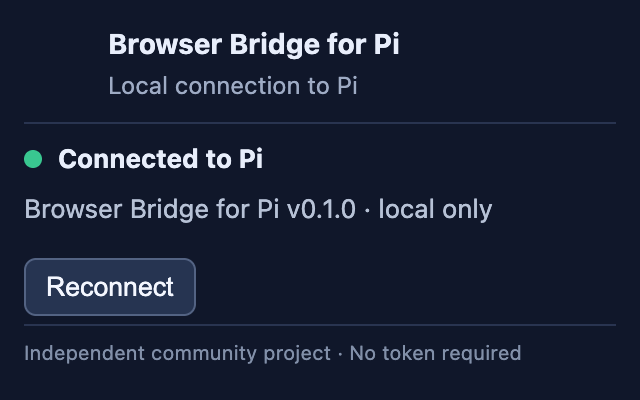
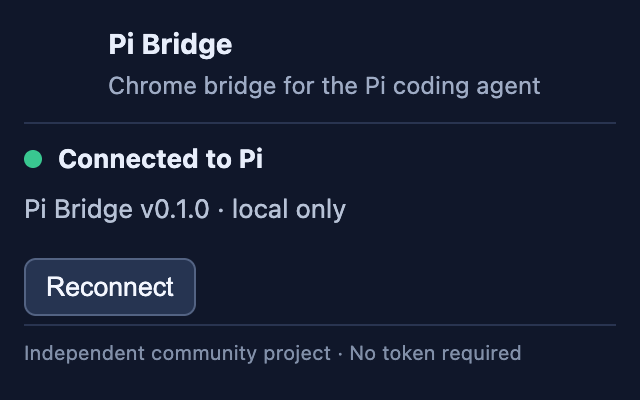
Rename extension to Pi Bridge

diff --git a/server/broker.js b/server/broker.js
@@ -70,7 +70,7 @@ export class BrowserBroker {
     this.wss.on("connection", (webSocket, _request, originId) => this.#handleExtension(webSocket, originId));
     this.httpServer.on("error", (error) => {
       if (error.code === "EADDRINUSE") {
-        console.error(`[pi-browser-bridge] Port ${this.port} is already in use; close the other Pi Browser Bridge session.`);
+        console.error(`[pi-browser-bridge] Port ${this.port} is already in use; close the other Pi Bridge session.`);
       } else {
         console.error(`[pi-browser-bridge] Loopback server error: ${error.message}`);
       }
@@ -140,7 +140,7 @@ export class BrowserBroker {
   async close() {
     this.closed = true;
     if (this.pingTimer) clearInterval(this.pingTimer);
-    this.#rejectAll("Pi Browser Bridge server is shutting down");
+    this.#rejectAll("Pi Bridge server is shutting down");
     for (const waiter of this.waiters) waiter(false);
     this.waiters.clear();
     if (this.extension && this.extension.readyState < WebSocket.CLOSING) this.extension.close(1001, "Pi is shutting down");
@@ -269,7 +269,7 @@ export class BrowserBroker {
 
   async #waitForExtension() {
     if (this.extension?.readyState === WebSocket.OPEN) return;
-    if (this.closed) throw new Error("Pi Browser Bridge server is shutting down");
+    if (this.closed) throw new Error("Pi Bridge server is shutting down");
     const connected = await new Promise((resolve) => {
       const timer = setTimeout(() => {
         this.waiters.delete(onConnection);
@@ -283,7 +283,7 @@ export class BrowserBroker {
       this.waiters.add(onConnection);
     });
     if (!connected || !this.extension || this.extension.readyState !== WebSocket.OPEN) {
-      throw new Error(`Chrome extension is not connected (waited ${Math.round(this.connectWaitMs / 1000)} seconds). Open Chrome, enable Pi Browser Bridge, and retry.`);
+      throw new Error(`Chrome extension is not connected (waited ${Math.round(this.connectWaitMs / 1000)} seconds). Open Chrome, enable Pi Bridge, and retry.`);
     }
   }
 }

diff --git a/extension/popup.html b/extension/popup.html
@@ -4,12 +4,12 @@
     <meta charset="utf-8">
     <meta name="viewport" content="width=device-width, initial-scale=1">
     <link rel="stylesheet" href="popup.css">
-    <title>Browser Bridge for Pi</title>
+    <title>Pi Bridge</title>
   </head>
   <body>
     <header>
       <img src="icons/icon-48.png" alt="" width="32" height="32">
-      <div><h1>Browser Bridge for Pi</h1><p>Local connection to Pi</p></div>
+      <div><h1>Pi Bridge</h1><p>Chrome bridge for the Pi coding agent</p></div>
     </header>
     <main>
       <div class="status"><span id="dot" class="dot"></span><strong id="state">Checking connection…</strong></div>

diff --git a/extension/popup.js b/extension/popup.js
@@ -6,7 +6,7 @@ function render(status) {
   const connected = status?.connected === true;
   state.textContent = connected ? "Connected to Pi" : "Waiting for Pi";
   detail.textContent = connected
-    ? `Browser Bridge for Pi v${status.extension_version || "0.1.0"} · local only`
+    ? `Pi Bridge v${status.extension_version || "0.1.0"} · local only`
     : "Start or reload a Pi session. The extension reconnects automatically.";
   dot.classList.toggle("connected", connected);
 }

diff --git a/test/pi-extension.test.js b/test/pi-extension.test.js
@@ -28,5 +28,5 @@ test("Chrome package uses web access without credential or debugging APIs", () =
   assert.ok(!manifest.permissions.includes("cookies"));
   assert.ok(!manifest.permissions.includes("debugger"));
   assert.ok(!manifest.permissions.includes("userScripts"));
-  assert.equal(manifest.name, "Browser Bridge for Pi");
+  assert.equal(manifest.name, "Pi Bridge");
 });

diff --git a/README.md b/README.md
@@ -1,6 +1,6 @@
-# Browser Bridge for Pi
+# Pi Bridge
 
-**Browser automation tools for Pi, with no token or port to enter.** Install the Pi package and the Chrome extension; the extension reconnects to Pi automatically whenever a Pi session is running.
+**Chrome browser tools for the Pi coding agent—no token or port to enter.** This repository installs a bridge plugin into an existing Pi installation and provides a separate Chrome extension; it does not install Pi itself.
 
 This is an independent community project. It is not produced, sponsored, or endorsed by Pi's maintainers or Google. “Pi” is used only to describe compatibility.
 
@@ -15,15 +15,15 @@ The Pi package registers a local MCP server. A Chrome extension connects to that
 
 The bridge does not expose arbitrary page JavaScript, cookies, local storage, or browser debugging. It refuses password, one-time-code, hidden, and token-like form fields. Local file uploads are not part of the first release.
 
-## Install
+## Install into an existing Pi
 
-1. Install the Pi package:
+1. In your existing Pi CLI installation, run:
 
    ```bash
    pi install git:github.com/GHChrisSu/pi-browser-bridge
    ```
 
-2. The Chrome Web Store listing is not published yet. For development, clone this repository, open `chrome://extensions`, enable Developer mode, and load the `extension/` directory as an unpacked extension.
+2. The Chrome Web Store listing for **Pi Bridge** is not published yet. For development, clone this repository, open `chrome://extensions`, enable Developer mode, and load the `extension/` directory as an unpacked extension.
 3. In Chrome, approve the extension's site access. Browser automation needs access to pages you ask Pi to work with.
 4. Restart Pi or run `/reload`. When Pi is running, the extension connects automatically. No pairing token or port entry is required.
 
@@ -53,7 +53,7 @@ The Chrome extension is still required. Only one Pi or external MCP server can o
 
 ## Name and affiliation
 
-The package and extension are named **Browser Bridge for Pi** to identify the Pi integration. They use no Pi logo or official styling and do not claim to be an official Pi product. Pi is a product name of its respective owner. Google Chrome and the Chrome Web Store are products of Google.
+The extension is named **Pi Bridge**; its description identifies it as a Chrome bridge for the Pi coding agent. It uses no Pi logo or official styling and does not claim to be an official Pi product. Pi is a product name of its respective owner. Google Chrome and the Chrome Web Store are products of Google.
 
 ## Security model
 

diff --git a/SECURITY.md b/SECURITY.md
@@ -6,7 +6,7 @@ Please use GitHub's private vulnerability reporting feature on the repository if
 
 ## Security boundaries
 
-Browser Bridge for Pi is a local browser-control tool. The Pi MCP server binds to loopback, and the Chrome extension accepts commands only from that local endpoint after validating its extension origin. The first extension ID is pinned automatically for subsequent reconnects.
+Pi Bridge is a local browser-control tool for the Pi coding agent. The Pi MCP server binds to loopback, and the Chrome extension accepts commands only from that local endpoint after validating its extension origin. The first extension ID is pinned automatically for subsequent reconnects.
 
 The bridge deliberately does not request the Chrome `cookies`, `debugger`, or `userScripts` permissions. It does not offer an arbitrary JavaScript execution tool. Form tools reject password, one-time-code, hidden, and token-like fields. These restrictions reduce accidental exposure; they do not make untrusted page contents safe. Treat page content as untrusted instructions and review any action that changes a remote account or submits a form.
 

diff --git a/docs/chrome-web-store-listing.md b/docs/chrome-web-store-listing.md
@@ -1,8 +1,8 @@
 # Chrome Web Store listing draft
 
-**Name:** Browser Bridge for Pi
+**Name:** Pi Bridge
 
-**Short description:** Control the active Chrome tab from Pi, with automatic local pairing and no token to copy.
+**Short description:** Chrome bridge for the Pi coding agent, with automatic local pairing and no token to copy.
 
 **Single purpose:** Connect the Pi coding agent running on this computer to the user's active Chrome tab so Pi can inspect page content and perform user-requested browser interactions.
 

diff --git a/docs/architecture.md b/docs/architecture.md
@@ -1,6 +1,6 @@
 # Architecture
 
-Browser Bridge for Pi has two local components. The Pi package registers a stdio MCP server for each Pi session. The Chrome MV3 extension reconnects to a WebSocket listener bound only to `127.0.0.1`.
+Pi Bridge has two local components. The package installs into an existing Pi CLI and registers a stdio MCP server for each Pi session. The Chrome extension named Pi Bridge reconnects to a WebSocket listener bound only to `127.0.0.1`.
 
 ```mermaid
 sequenceDiagram

diff --git a/PRIVACY.md b/PRIVACY.md
@@ -1,6 +1,6 @@
 # Privacy policy
 
-Browser Bridge for Pi is an independent, local browser automation extension for Pi.
+Pi Bridge is an independent, local Chrome browser bridge for the Pi coding agent.
 
 ## Data processed
 
